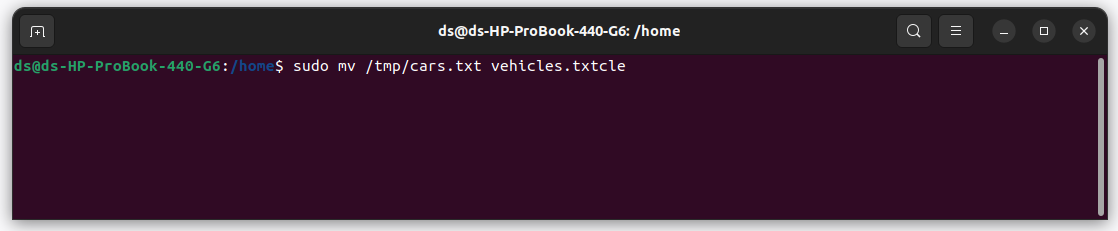
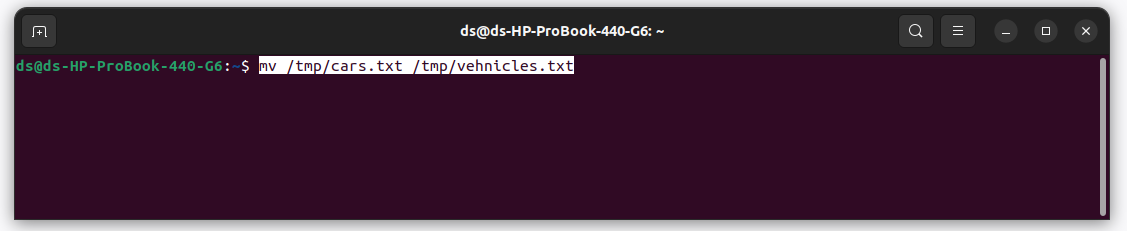
Linux

diff --git a/DevOps Lab 5 - Linux/homework02/README.md b/DevOps Lab 5 - Linux/homework02/README.md
@@ -145,7 +145,7 @@
 ###  Without leaving your home directory rename file cars.txt located in /tmp to vehicles.txt in /tmp 
 
  
-            $ sudo mv /tmp/cars.txt vehicles.txt
+            $ mv /tmp/cars.txt /tmp/vehnicles.txt
              
 
 ![Change file name](images/15.png)
